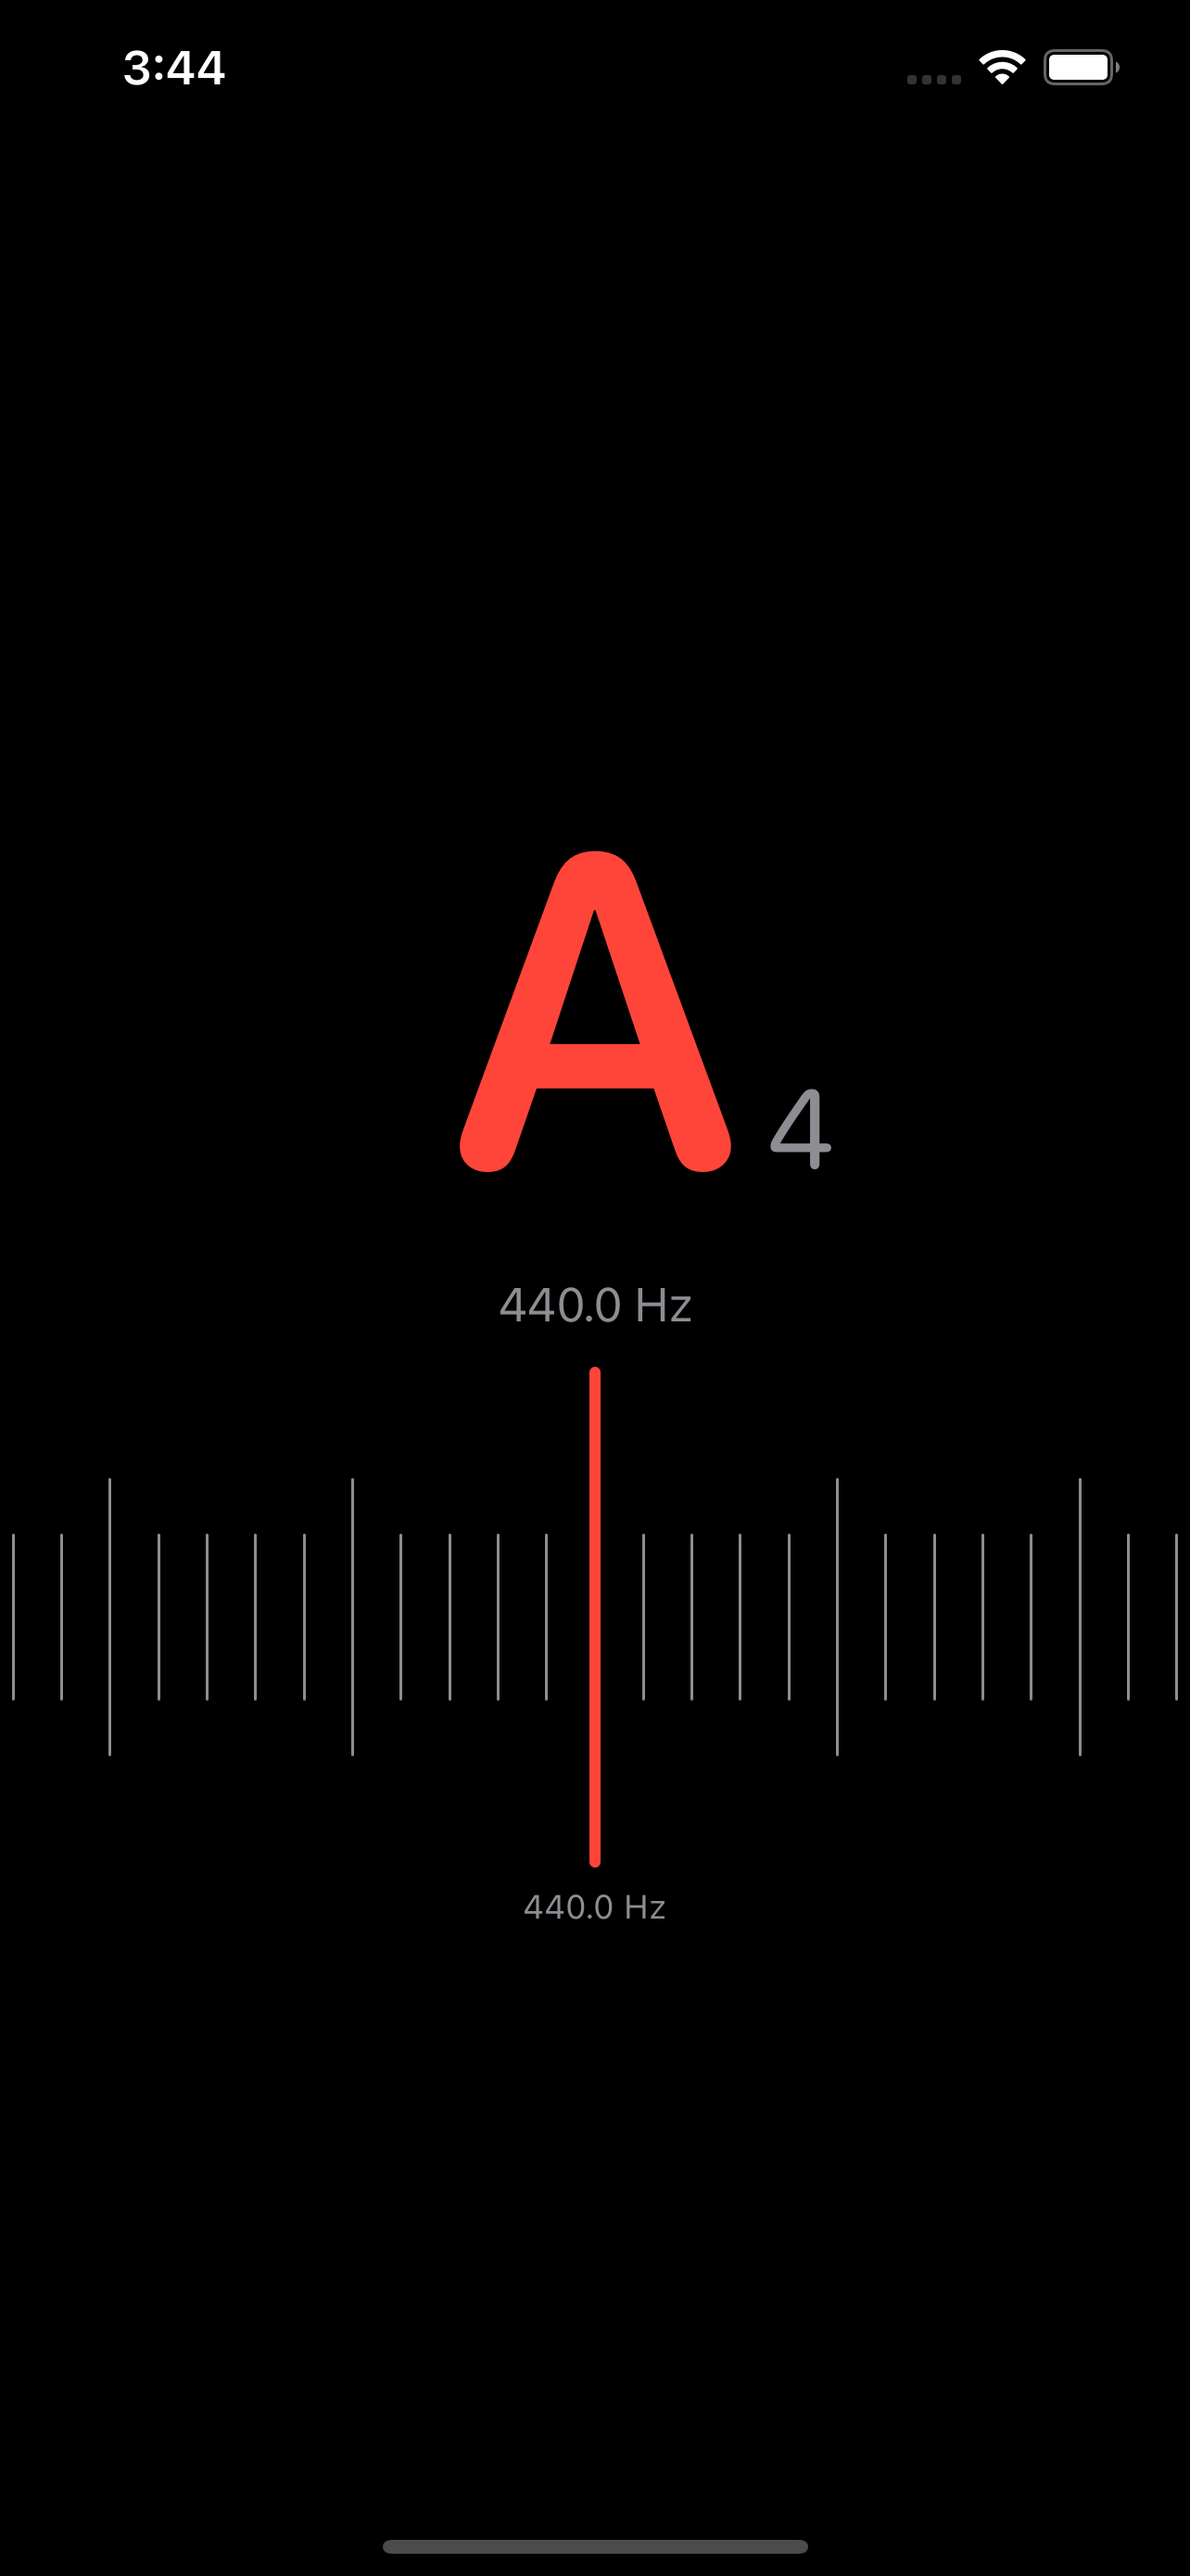
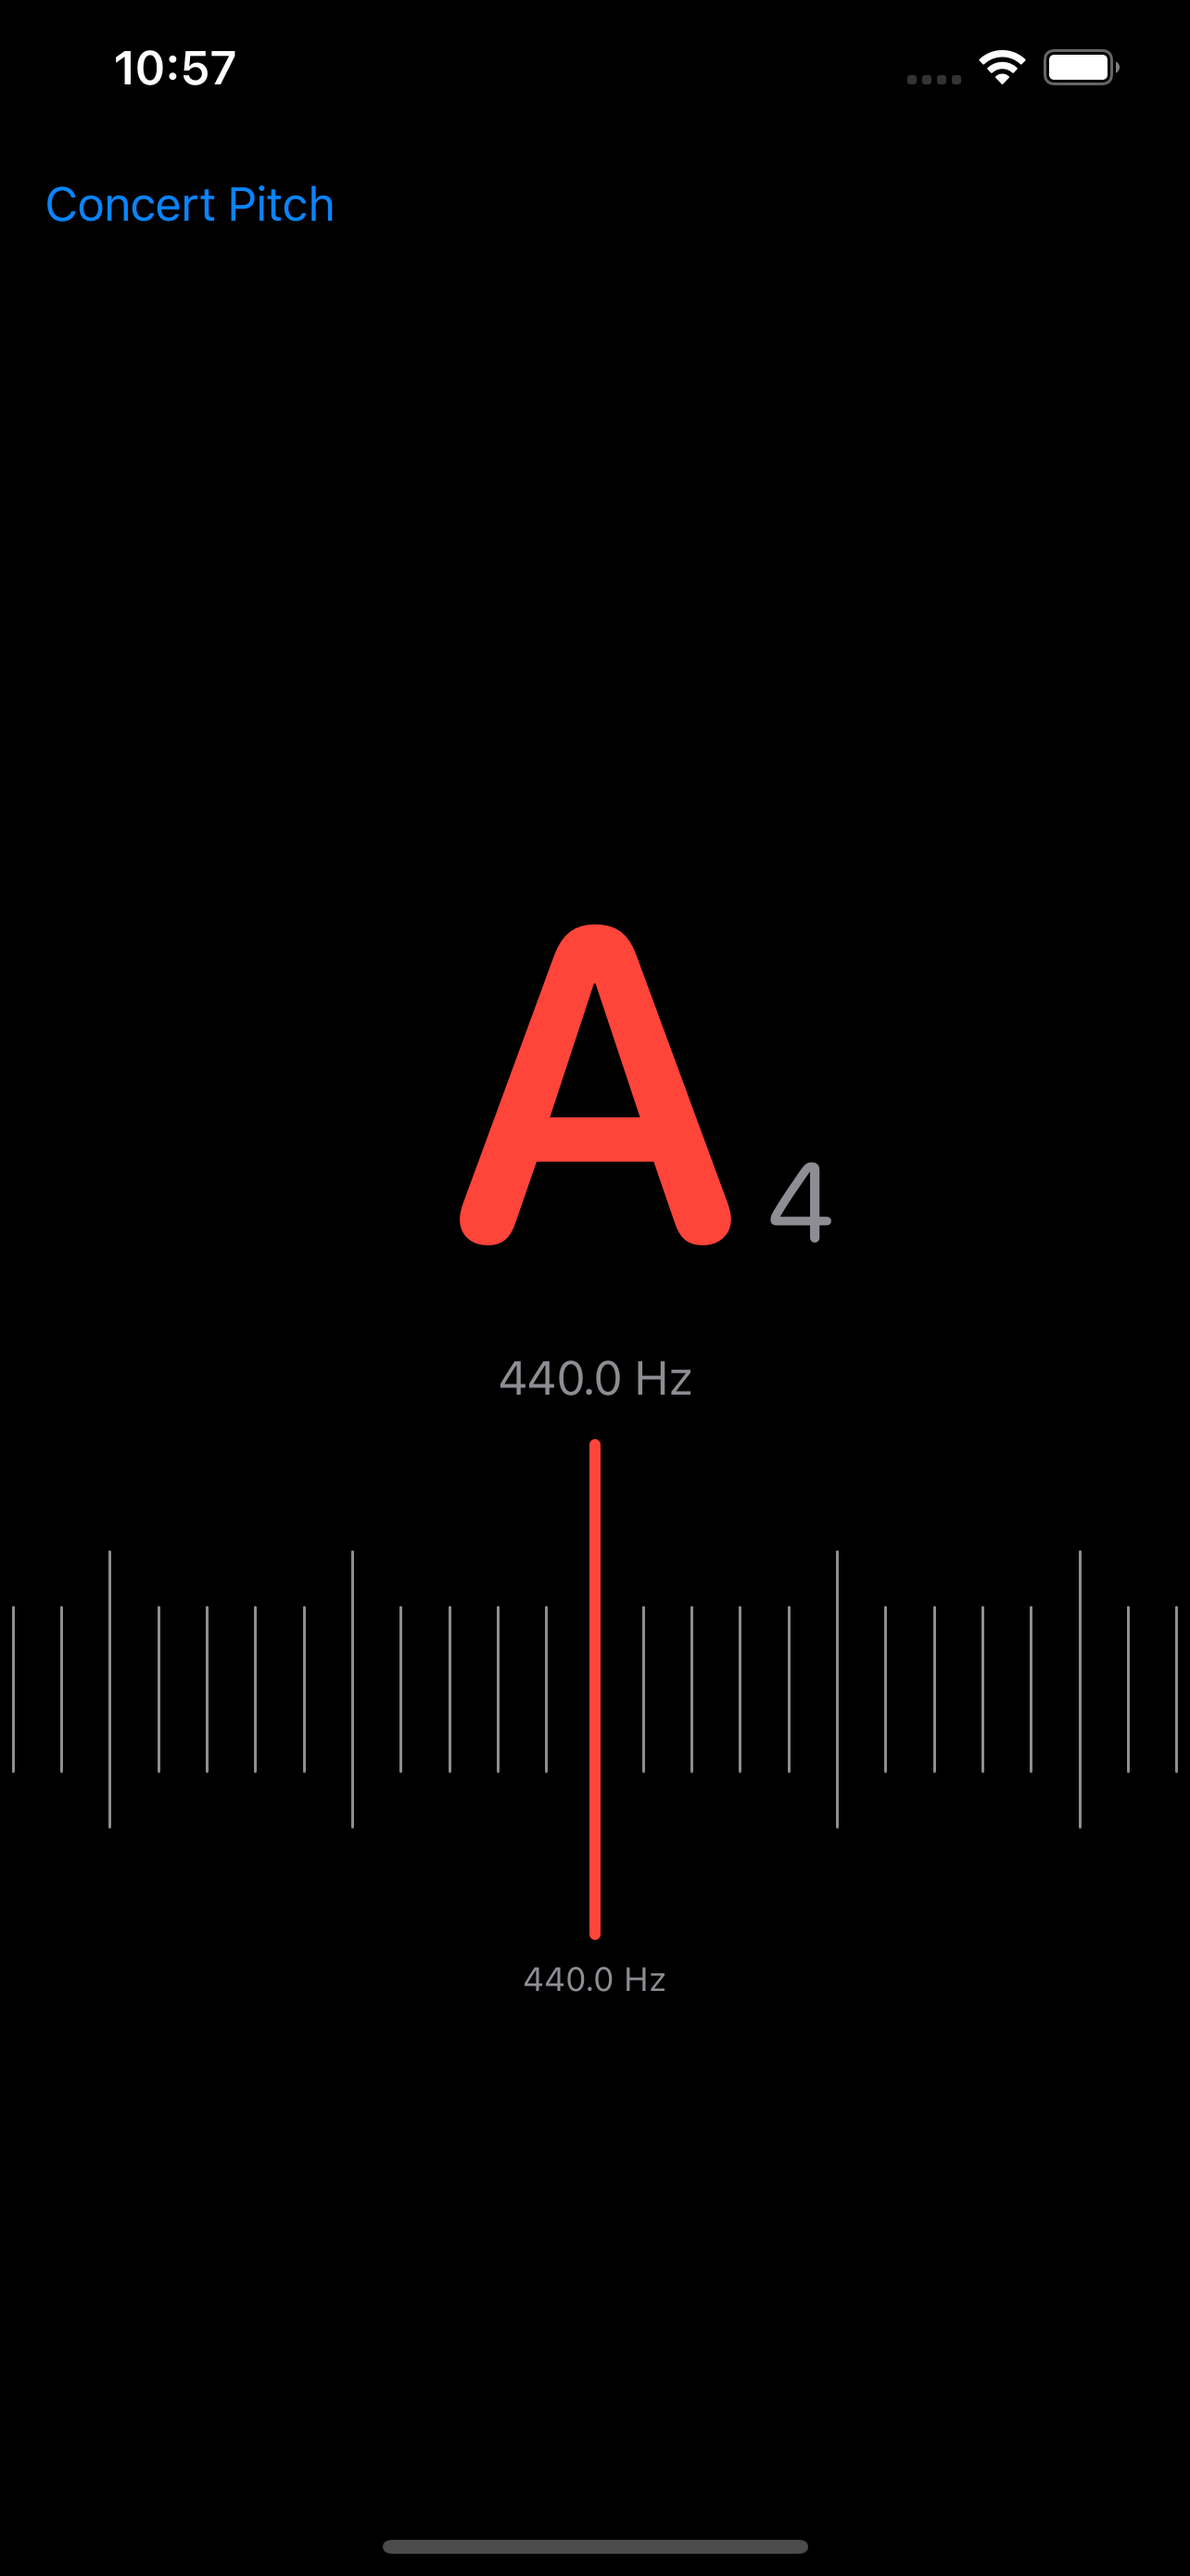
Add support for transpositions (#6)
* Add support for transpositions

* Update screenshots

diff --git a/Shared/Models/ScaleNote.swift b/Shared/Models/ScaleNote.swift
@@ -1,7 +1,7 @@
 import Darwin.C.math
 
 /// A note in a twelve-tone equal temperament scale. https://en.wikipedia.org/wiki/Equal_temperament
-enum ScaleNote: CaseIterable {
+enum ScaleNote: Int, CaseIterable {
     case C, CSharp_DFlat, D, DSharp_EFlat, E, F, FSharp_GFlat, G, GSharp_AFlat, A, ASharp_BFlat, B
 
     /// A note match given an input frequency.
@@ -15,6 +15,29 @@ enum ScaleNote: CaseIterable {
 
         /// The frequency of the matched note, adjusted by octave.
         var frequency: Frequency { note.frequency.shifted(byOctaves: octave) }
+
+        /// The current note match adjusted for transpositions.
+        ///
+        /// - parameter transposition: The transposition on which to map the current match.
+        ///
+        /// - returns: The match mapped to the specified transposition.
+        func inTransposition(_ transposition: ScaleNote) -> ScaleNote.Match {
+            let transpositionDistanceFromC = transposition.rawValue
+            guard transpositionDistanceFromC > 0 else {
+                return self
+            }
+
+            let currentNoteIndex = note.rawValue
+            let allNotes = ScaleNote.allCases
+            let transposedNoteIndex = (currentNoteIndex + transpositionDistanceFromC) % allNotes.count
+            let transposedNote = allNotes[transposedNoteIndex]
+            let octaveShift = (transposedNoteIndex < currentNoteIndex) ? -1 : 0
+            return ScaleNote.Match(
+                note: transposedNote,
+                octave: octave + octaveShift,
+                distance: distance
+            )
+        }
     }
 
     /// Find the closest note to the specified frequency.

diff --git a/Shared/Views/TunerView.swift b/Shared/Views/TunerView.swift
@@ -1,21 +1,33 @@
 import SwiftUI
 
 struct TunerView: View {
-    @ObservedObject var tunerController = TunerController()
-    @AppStorage("modifierPreference") var modifierPreference = ModifierPreference.preferSharps
+    @ObservedObject private var tunerController = TunerController()
+    @AppStorage("modifierPreference") private var modifierPreference = ModifierPreference.preferSharps
+    @AppStorage("selectedTransposition") private var selectedTransposition = 0
 
     private var tunerData: TunerData { tunerController.data }
 
     var body: some View {
         VStack(alignment: .noteCenter) {
+            HStack {
+                TranspositionMenu(selectedTransposition: $selectedTransposition)
+                    .padding()
+
+                Spacer()
+            }
+
+            Spacer()
+
             MatchedNoteView(
-                match: tunerData.closestNote,
+                match: tunerData.closestNote.inTransposition(ScaleNote.allCases[selectedTransposition]),
                 modifierPreference: modifierPreference
             )
             .onTapGesture {
                 modifierPreference = modifierPreference.toggled
             }
+
             MatchedNoteFrequency(frequency: tunerData.closestNote.frequency)
+
             NoteDistanceMarkers()
                 .overlay(
                     CurrentNoteMarker(
@@ -23,6 +35,8 @@ struct TunerView: View {
                         distance: tunerData.closestNote.distance
                     )
                 )
+
+            Spacer()
         }
         .onAppear(perform: tunerController.start)
         .onDisappear(perform: tunerController.stop)

diff --git a/Shared/Views/TranspositionMenu.swift b/Shared/Views/TranspositionMenu.swift
@@ -1,0 +1,49 @@
+import SwiftUI
+
+struct TranspositionMenu: View {
+    private let transpositions = ScaleNote.allCases.map(\.transpositionName)
+    @Binding var selectedTransposition: Int
+
+    var body: some View {
+        Menu(
+            content: {
+                ForEach(0..<transpositions.count) { index in
+                    Button(
+                        action: {
+                            selectedTransposition = index
+                        },
+                        label: {
+                            Text(transpositions[index])
+                        }
+                    )
+                }
+            },
+            label: {
+                Text(transpositions[selectedTransposition])
+            }
+        )
+        .transaction { transaction in
+            // Disable jarring animation when menu label changes width
+            transaction.disablesAnimations = true
+            transaction.animation = nil
+        }
+    }
+}
+
+private extension ScaleNote {
+    var transpositionName: String {
+        switch self {
+        case .C:
+            return "Concert Pitch"
+        default:
+            return names.joined(separator: " / ")
+        }
+    }
+}
+
+struct TranspositionMenu_Previews: PreviewProvider {
+    static var previews: some View {
+        TranspositionMenu(selectedTransposition: .constant(0))
+            .previewLayout(.sizeThatFits)
+    }
+}
